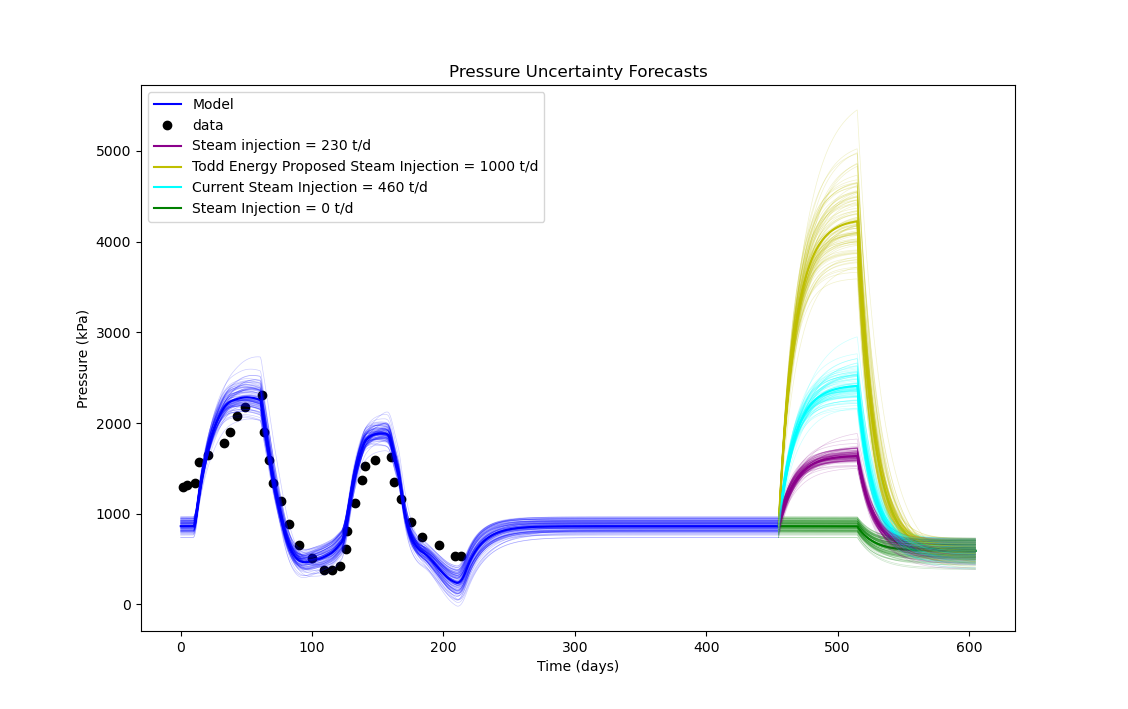
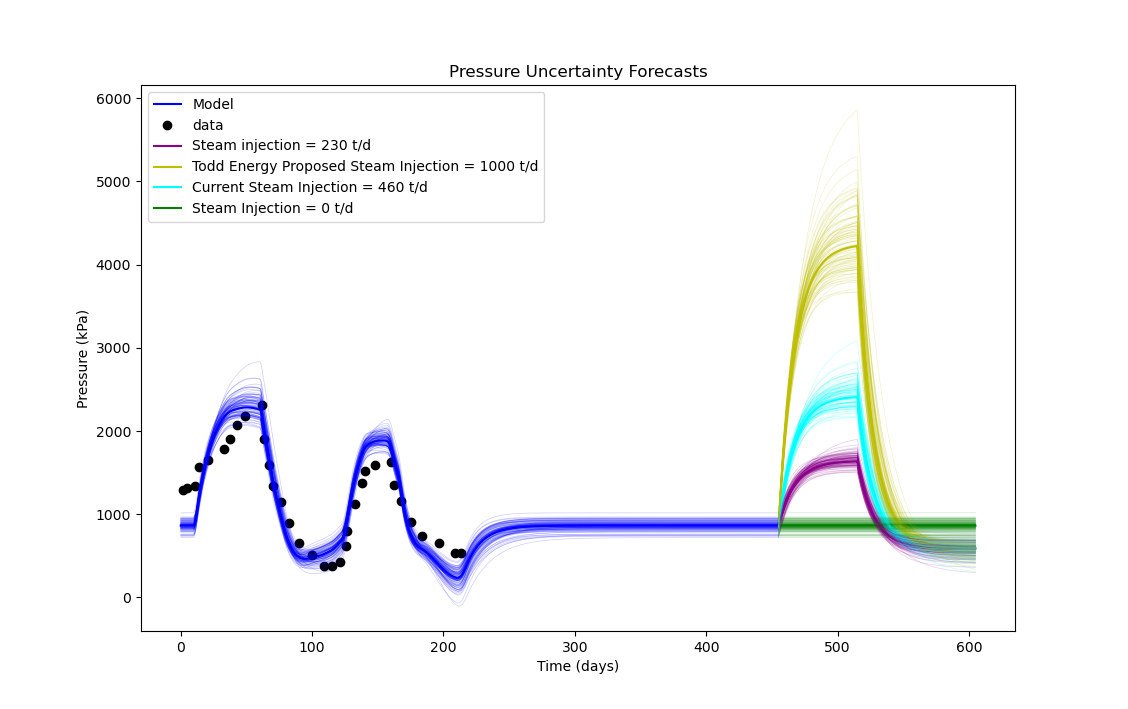
Updated rejection scenario to not do a production phase.

diff --git a/main.py b/main.py
@@ -139,7 +139,7 @@ class Qterms:
         self.forcProducEnd = self.forcInjecEnd + 90
 
         # Assigns value to be used for qs during injection period.
-        if forcInject != None:
+        if (forcInject != None) & (forcInject != 0):
             self.forc_s = forcInject
         else:
             self.forc_s = self.steam[1][-1]
@@ -165,7 +165,10 @@ class Qterms:
         elif ((t > self.water[0][-1]) and (t <= self.forcInjecEnd)):
             w = 0
         elif ((t > self.forcInjecEnd)) and (t <= self.forcProducEnd):
-            w = 80.637/2
+            if (self.forc_s == 0):
+                w = 0
+            else:
+                w = 80.637/2
         else:
             ValueError('Tried to access Q outside of allowed time values.')
     
@@ -177,7 +180,10 @@ class Qterms:
         elif ((t > self.oil[0][-1]) and (t <= self.forcInjecEnd)):
             o = 0
         elif ((t > self.forcInjecEnd)) and (t <= self.forcProducEnd):
-            o = 80.637/2
+            if (self.forc_s == 0):
+                o = 0
+            else:
+                o = 80.637/2
         else:
             ValueError('Tried to access Q outside of allowed time values.')
         
